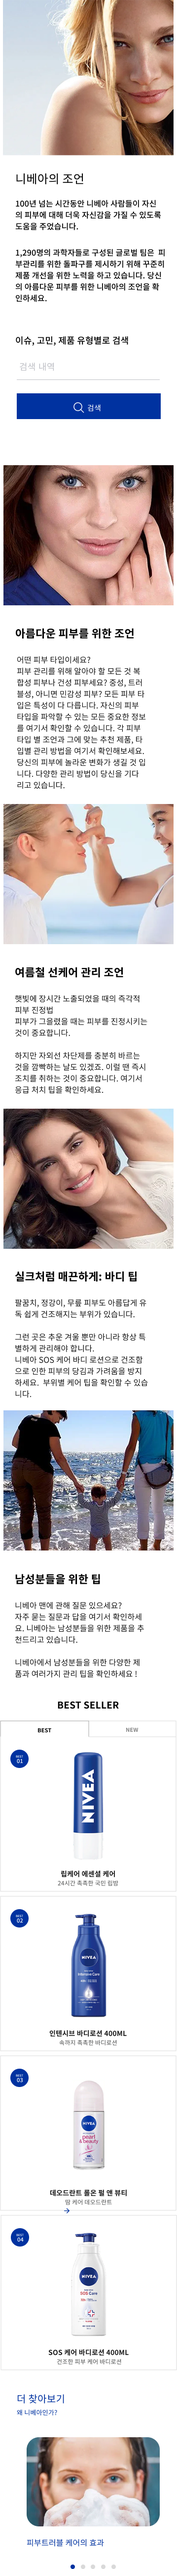
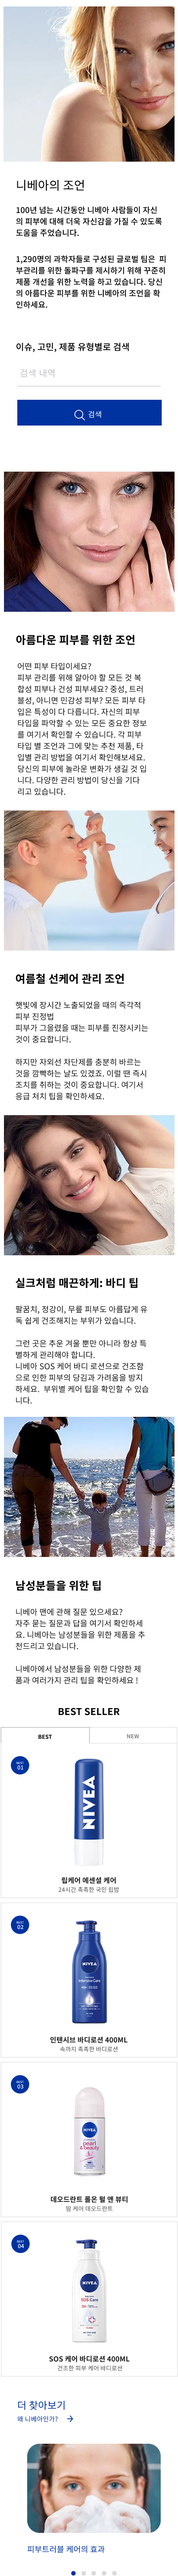
t
t

diff --git a/04_css/75_회전.html b/04_css/75_회전.html
@@ -1,0 +1,103 @@
+<!DOCTYPE html>
+<html lang="en">
+
+<head>
+    <meta charset="UTF-8">
+    <meta name="viewport" content="width=device-width, initial-scale=1.0">
+    <title>회전</title>
+    <style>
+        /*  perspective(원근감): 숫자px;
+            transform-origin: x, y; -> 기준점
+            transform(변형)
+                2D(x,y)
+                    rotate(각도)
+                    scale(w, h)
+                    scaleX(w)
+                    scaleY(h)
+                    translate(x,y)
+                    translateX(x)
+                    translateY(y)
+                    skew(각도, 각도)
+                    skewX(각도)
+                    skewY(각도)
+
+                3D(x,y,z)
+                    큐브 만들기
+                    rotateX(회전)
+                    rotateY(회전)
+                    scaleZ(크기 조절)
+                    translateZ(위치)
+            2D
+                transform: rotate(숫자deg);
+            3D
+                transform: rotateX(숫자deg);
+                transform: rotateY(숫자deg);
+        */
+        .rot {
+            display: flex;
+            width: 500px;
+            height: 300px;
+            border: 1px solid red
+        }
+        .rot div {
+            width: 100px;
+            height: 100px;
+            border: 1px solid lavender;
+            border-radius: 10px;
+            margin: 20px;
+            overflow: hidden;
+            /* 
+                원근감
+                    perspective: 숫자;
+                    트렌스폼을 적용한 부모에 지정한다.!!!
+                    숫자는 800~1000px
+                    3D 효과를 줄 때 사용!
+            */
+            perspective: 800px;
+        }
+
+        span {
+            display: block;
+            width: 100px;
+            height: 100px;
+            background: lightskyblue;
+            transition: 1s;
+            text-align: center;
+        }
+
+        .rot div:first-child:hover span {
+            transform: rotate(180deg);
+            transition: 1s;
+        }
+        .rot div:nth-child(2):hover span {
+            transform: rotateX(180deg);
+            transition: 1s;
+        }
+        .rot div:last-child:hover span {
+            transform: rotateY(180deg);
+            transition: 1s;
+        }
+
+
+        /*  
+            transition(전환)
+            transition-property: 속성;
+            transition-duration: 시간;
+            transition-delay: 시간;
+            transition-timing-function: 가속도;
+
+            transition: [속성] 전환시간 [가속도] [지연시간];
+        */
+    </style>
+</head>
+
+<body>
+    <h1>변형</h1>
+    <div class="rot">
+        <div><span>2D</span></div>
+        <div><span>3D-X</span></div>
+        <div><span>3D-Y</span></div>
+    </div>
+</body>
+
+</html>

diff --git a/70_pf/somewherebutter/index.html b/70_pf/somewherebutter/index.html
@@ -1,0 +1,48 @@
+<!DOCTYPE html>
+<html lang="en">
+<head>
+    <meta charset="UTF-8">
+    <meta name="viewport" content="width=device-width, initial-scale=1.0">
+    <title>somewhere butter</title>
+</head>
+<body>
+    <!-- 헤더 -->
+     <header>
+        <!-- logo -->
+         <h1><a href="#">SOMEWHERE BUTTER</a></h1>
+         <nav>
+            <ul class="main">
+                <li>
+                    <a href="#">SHOP</a>
+                    <ul class="sub">
+                        <li><a href="#">CLOTHES</a></li>
+                        <li><a href="#">BAG</a></li>
+                        <li><a href="#">ACC</a></li>
+                        <li><a href="#">SHOES</a></li>
+                    </ul>
+                </li>
+                <li>
+                    <a href="#">LOOK BOOK</a>
+                    <ul class="sub">
+                        <li><a href="#"></a></li>
+                    </ul>
+                </li>
+                <li>
+                    <a href="#">COMMUNITY</a>
+                    <ul class="sub">
+                        <li><a href="#"></a></li>
+                    </ul>
+                </li>
+                <li>
+                    <a href="#">CUSTOMER</a>
+                    <ul class="sub">
+                        <li><a href="#">NOTICE</a></li>
+                        <li><a href="#">Q&A</a></li>
+                        <li><a href="#">REVIEW</a></li>
+                    </ul>
+                </li>
+            </ul> <!-- //.main -->
+         </nav>
+     </header>
+</body>
+</html>

diff --git a/04_css/75-1_회전.html b/04_css/75-1_회전.html
@@ -1,0 +1,59 @@
+<!DOCTYPE html>
+<html lang="en">
+
+<head>
+    <meta charset="UTF-8">
+    <meta name="viewport" content="width=device-width, initial-scale=1.0">
+    <title>회전</title>
+    <style>
+        #rot3d {
+            width: 100px;
+            height: 100px;
+            perspective: 800px;
+        }
+        #rot3d:hover>div {
+            transform: rotateY(180deg);
+        }
+
+        #rot3d>div {
+            position: absolute;
+            /************글자 정중앙************/
+            display: flex;
+            justify-content: center;
+            align-items: center;
+            /****************************/
+            width: 100px;
+            height: 100px;
+            transition: 1s;
+            border-radius: 10px;
+            box-shadow: 0 0 3px 1px #ddd;
+        }
+        #rot3d .front {
+            /* transform: rotateY(180deg); */
+            background: lightpink;
+            /* backface-visibility: hidden; */
+        }
+        #rot3d .front div {
+            transform: rotateY(180deg);
+        }
+        #rot3d .back {
+            background: lightgreen;
+            backface-visibility: hidden;
+        }
+    </style>
+</head>
+
+<body>
+    <h1>팜한농 벤치</h1>
+    <!-- https://www.farmhannong.com/kor/main/index.do 팜한농-->
+    <div id="rot3d">
+        <div class="front">
+            <div>3D</div>
+        </div>
+        <div class="back">
+            <div>Y</div>
+        </div>
+    </div>
+</body>
+
+</html>

diff --git a/70_pf/team2/advice.html b/70_pf/team2/advice.html
@@ -13,11 +13,11 @@
     <div id="ad_s1">
         <img src="image/ad_bg.png" alt="니베아의 조언">
         <h2>니베아의 조언</h2>
-        <p>100년 넘는 시간동안 니베아 사람들이 자신의 피부에 대해 더욱
+        <p>100년 넘는 시간동안 니베아 사람들이 자신의 피부에 대해 더욱<br>
             자신감을 가질 수 있도록 도움을 주었습니다.</p>
-        <p>1,290명의 과학자들로 구성된 글로벌 팀은 피부관리를 위한 돌파구를
-            제시하기 위해 꾸준히 제품 개선을 위한 노력을 하고 있습니다.</p>
-        <p>당신의 아름다운 피부를 위한 니베아의 조언을 확인하세요.</p>
+        <p>1,290명의 과학자들로 구성된 글로벌 팀은 피부관리를 위한 돌파구를<br>
+            제시하기 위해 꾸준히 제품 개선을 위한 노력을 하고 있습니다.<br>
+            당신의 아름다운 피부를 위한 니베아의 조언을 확인하세요.</p>
     </div>
 </body>
 

diff --git a/70_pf/team2/draft.html b/70_pf/team2/draft.html
@@ -11,6 +11,7 @@
         img {
             width: 100%;
             height: auto;
+            /* vertical-align: top; */
         }
 
         .tblet, .desktop {
@@ -34,6 +35,13 @@
                 display: block;
             }
         }
+
+        /* @media (min-width: 768px) {
+            div {
+                height: ;
+                background: url(draft_ta.png) no-repeat;
+            }
+        } */
         
     </style>
 </head>

diff --git a/70_pf/team2/advice.css b/70_pf/team2/advice.css
@@ -16,16 +16,18 @@ p {
         margin: 0 auto;
         width: 1024px;
     }
-
-    #ad_s1 img {
+    #ad_s1 {
         position: relative;
+        margin-top: 19px;
+        border: 1px solid red;
+    }
+    #ad_s1 img {
         max-width: 100%;
-        /* margin-top: 19px; */
     }
     
     #ad_s1>h2 {
         position: absolute;
-        top: 0px;
+        top: 65px;
     }
 
     #ad_s1>p {
